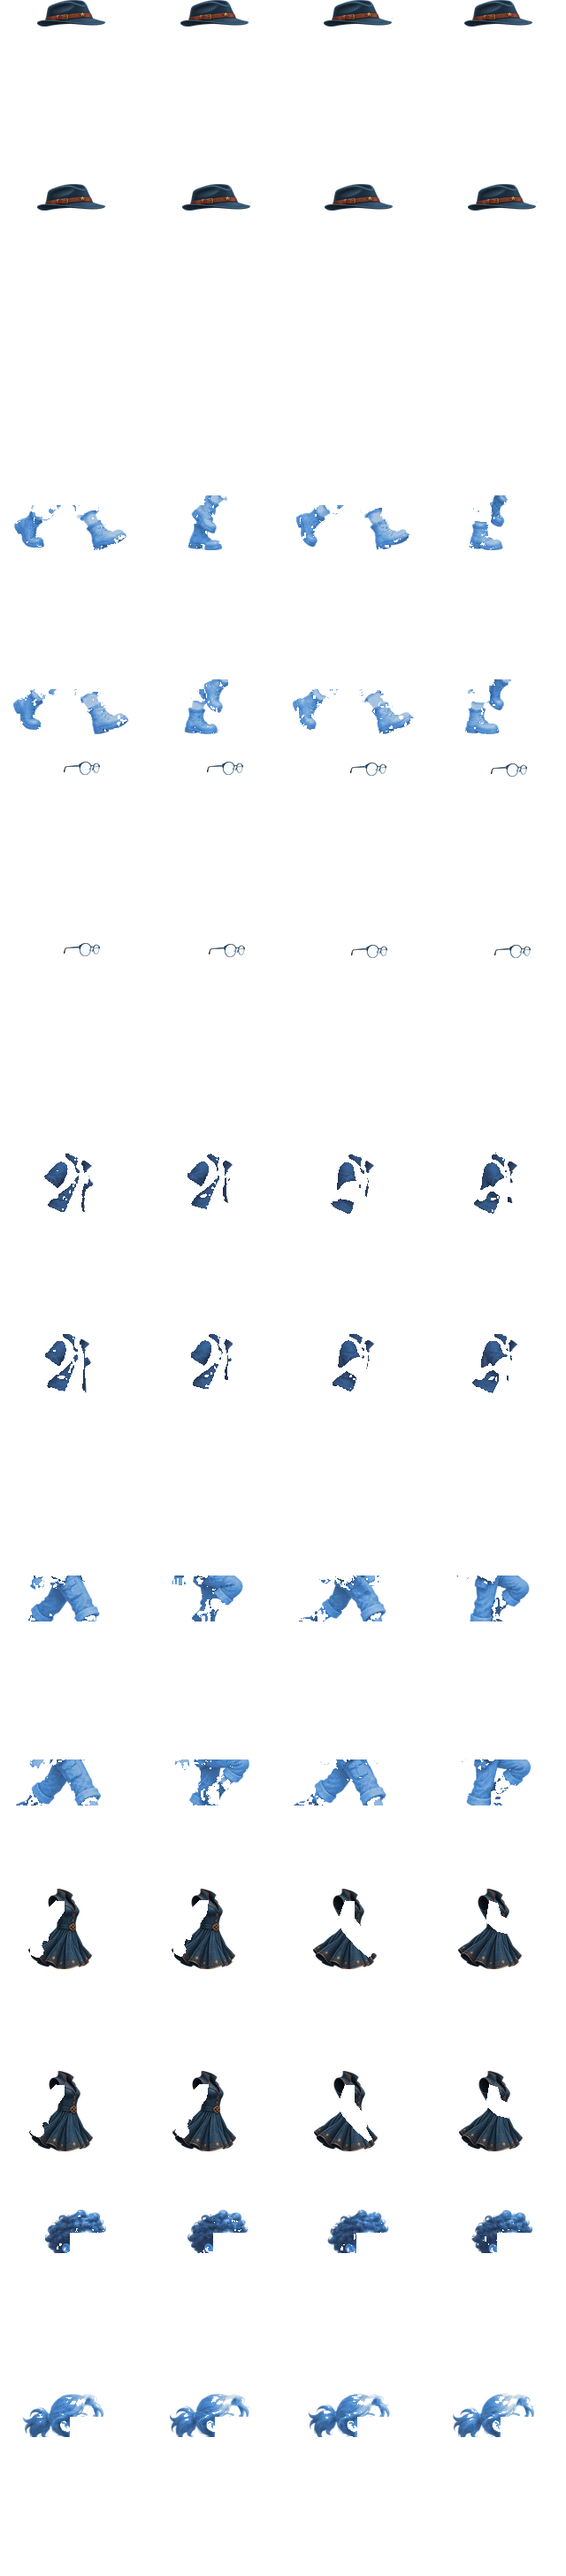
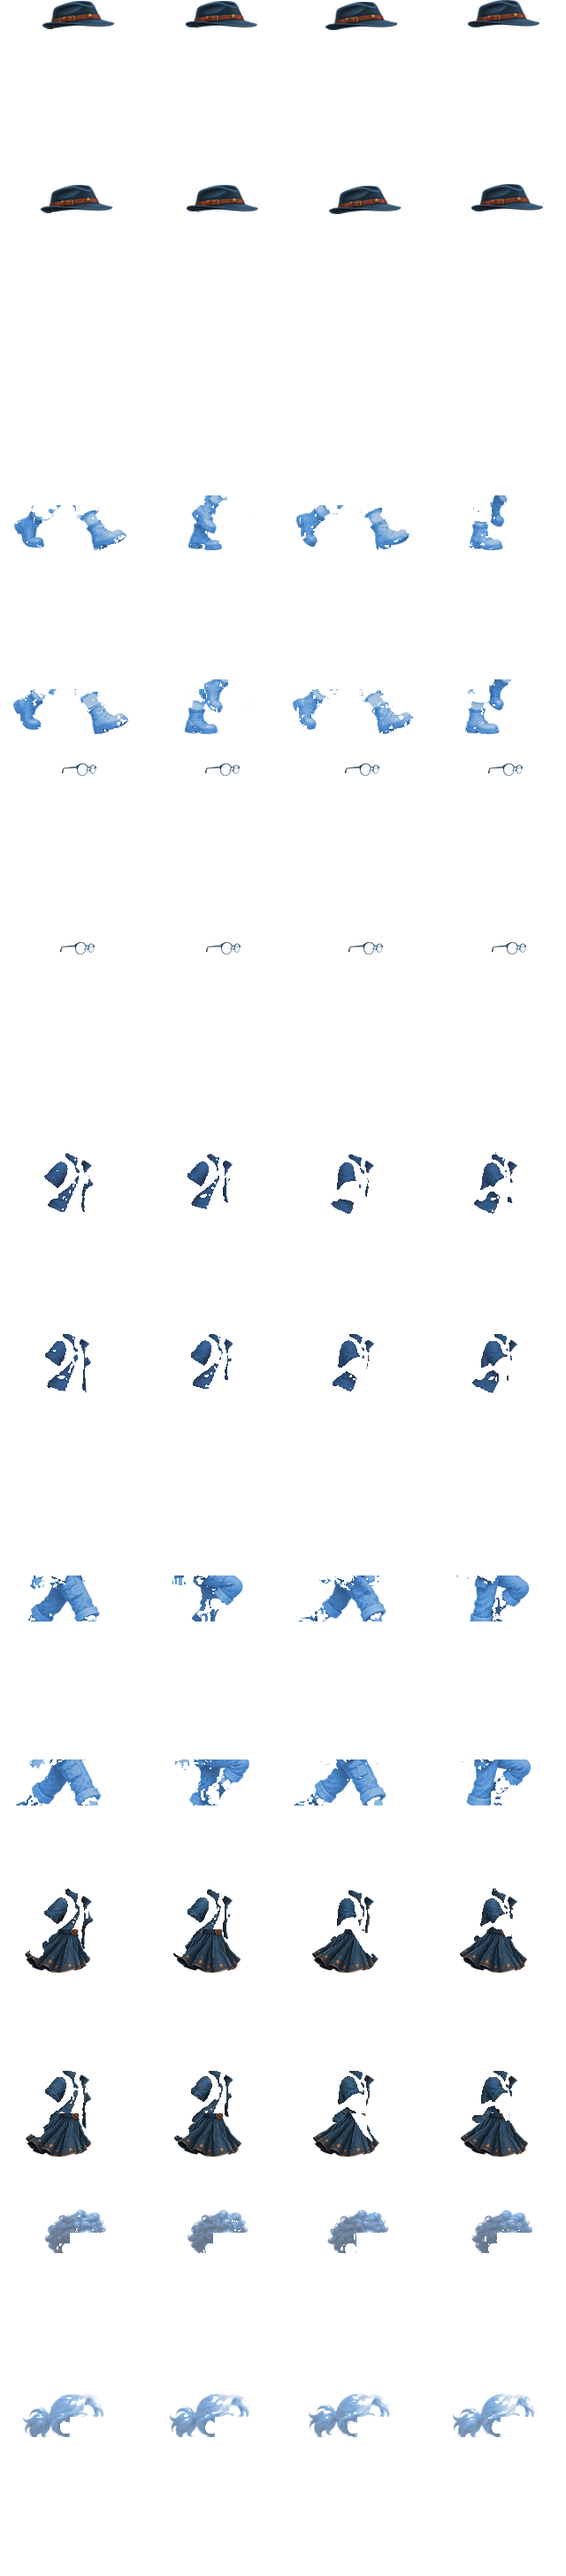
Fit worn gear to the moving explorer and preserve limb depth

diff --git a/explorer-creator.css b/explorer-creator.css
@@ -1,4 +1,4 @@
-.personal-explorer{display:inline-block;height:100%;aspect-ratio:160/208;background:url('/assets/spellmaster/explorer-walk.webp') 0 var(--pose-row)/400% 600% no-repeat}
+.personal-explorer{display:inline-block;height:100%;aspect-ratio:160/208;background-position-x:0}
 .personal-explorer.walking{animation:explorer-walk .64s steps(1) infinite}
 @keyframes explorer-walk{0%{background-position-x:0}25%{background-position-x:33.333%}50%{background-position-x:66.667%}75%{background-position-x:100%}}
 .cave-floor .personal-explorer{position:absolute;bottom:0;transform:translateX(-50%);transition:left .8s ease}
@@ -21,3 +21,6 @@
 .shop-layout{display:grid;grid-template-columns:minmax(220px,.8fr) 1.4fr;gap:22px;padding:20px}.shop-fitting{align-self:start;background:#382940;border:3px double #caa467;border-radius:14px;overflow:hidden;color:#fff1ce;text-align:center}.shop-fitting .explorer-stage{height:clamp(215px,40vh,340px);border-radius:0;background:linear-gradient(0deg,#31203940,transparent 52%),url('/assets/spellmaster/library-cinematic.webp') center/cover;padding-top:18px;box-sizing:border-box}.shop-selection{font:bold 21px Georgia,serif;margin:14px 6px;color:inherit}
 .shop-stock{min-width:0}.shop-items{margin:0;grid-template-columns:repeat(3,minmax(0,1fr));gap:8px}.shop-items button{display:flex;flex-direction:column;align-items:center;justify-content:flex-start;gap:3px;margin:0;padding:5px 4px 8px;background:radial-gradient(ellipse at 50% 30%,#fffcf1,#f2dfb8);font-weight:700;line-height:1.15}.shop-items small{font-weight:500}.shop-sample{display:block;width:min(100%,100px);aspect-ratio:144/112;background:url('/assets/spellmaster/wardrobe-samples.webp') 0 50%/700% 100% no-repeat}.shop-colours button,.shop-action{border:1px solid #ae9769}.shop-colours button{background:#fffaf0;color:#34243f}.shop-action{font-weight:bold}.shop-stock [role=status]{margin:6px 0}
 @media(max-width:640px){.shop-layout{display:block;padding:12px}.shop-fitting{display:flex;align-items:center;margin-bottom:12px}.shop-fitting .explorer-stage{width:48%;height:122px;padding-top:4px}.shop-selection{flex:1;font-size:18px}.shop-head{padding:8px;gap:6px}.shop-head p{font-size:13px}.shop-sample{max-width:70px}}
+
+.personal-explorer .explorer-body{position:absolute;inset:0;background:url('/assets/spellmaster/explorer-walk.webp') 0 var(--pose-row)/400% 600% no-repeat;background-position-x:inherit}
+.personal-explorer.wearing-hat :is(.explorer-body,.explorer-hair){clip-path:polygon(0 0,38% 0,33% 12%,83% 12%,83% 0,100% 0,100% 100%,0 100%)}

diff --git a/explorer-creator.js b/explorer-creator.js
@@ -5,11 +5,14 @@
  function sprite(value,equipped=[],colours={}){
   const el=document.createElement('span');
   el.className='personal-explorer';
+  if(equipped.includes(layers[0]))el.classList.add('wearing-hat');
   el.setAttribute('aria-hidden','true');
   el.style.setProperty('--pose-row',value*20+'%');
+  const body=document.createElement('span');body.className='explorer-body';el.append(body);
   for(const index of [4,3,5,1,6,2,0]){
    if(!equipped.includes(layers[index]))continue;
    const layer=document.createElement('span');layer.className='explorer-gear';
+   if(index===6)layer.classList.add('explorer-hair');
    const colour=colours?.[layers[index]];
    if(['teal','rose','gold','blue'].includes(colour))layer.style.backgroundImage="url('/assets/spellmaster/explorer-gear-"+colour+".webp')";
    layer.style.backgroundPositionY=((index*2+Math.floor(value/3))*100/13)+'%';el.append(layer);
